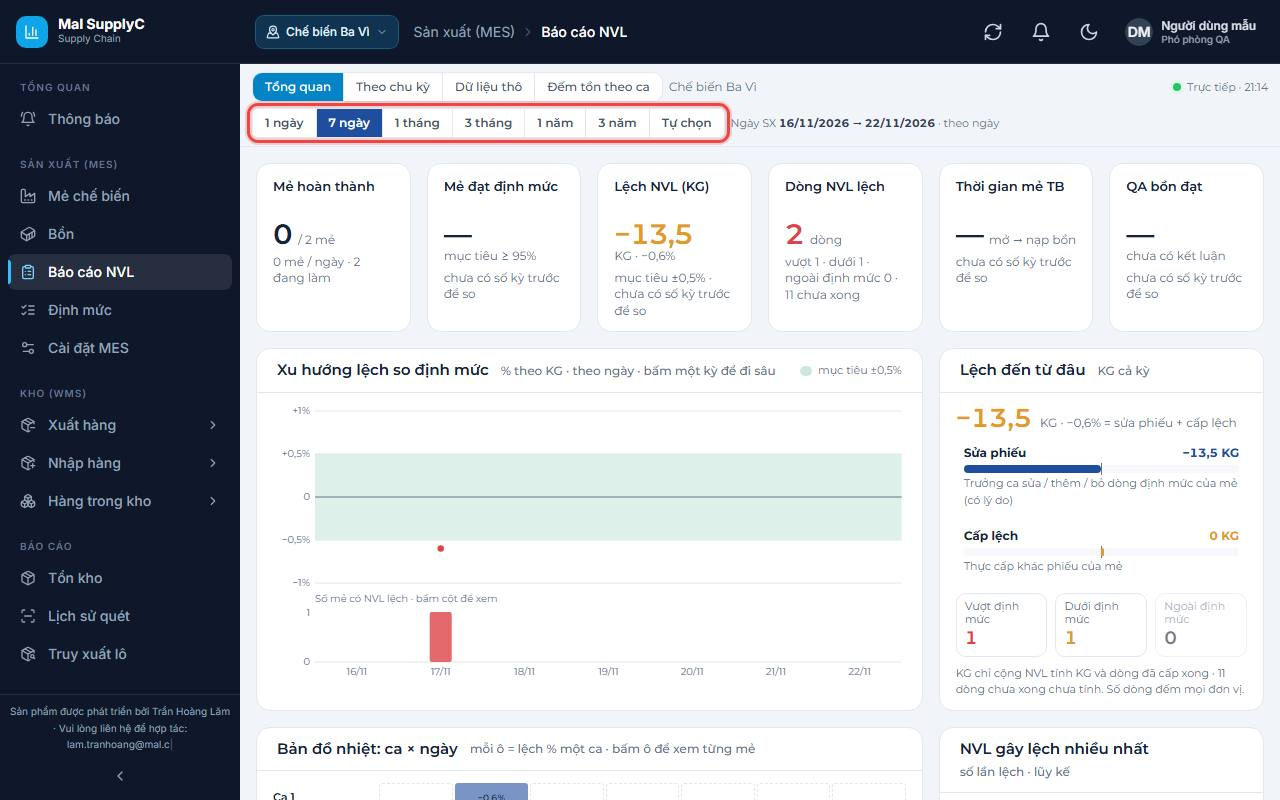
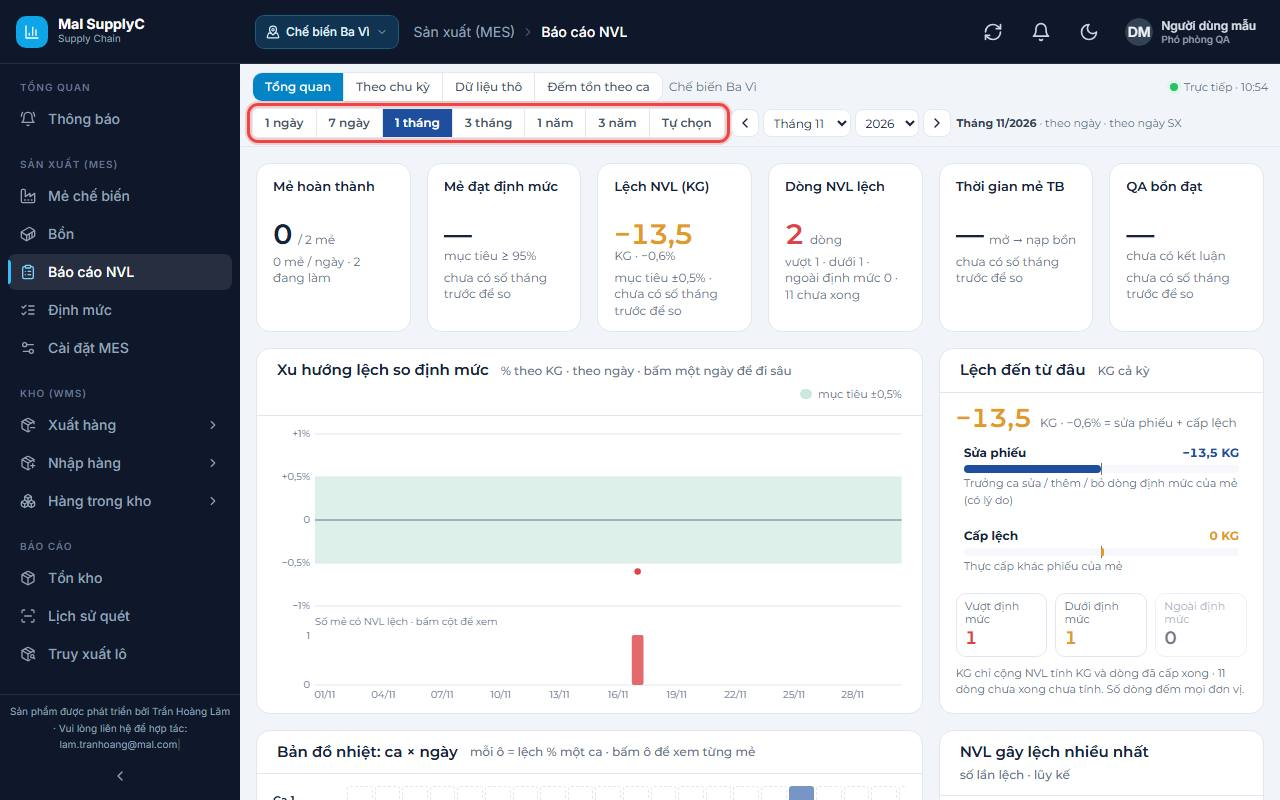
docs(mes): dashboard Báo cáo NVL mặc định 1 tháng; chụp lại ảnh hướng dẫn 70b / 70c theo kỳ lịch + ô chọn mốc

diff --git a/docs/modules/production.md b/docs/modules/production.md
@@ -80,7 +80,7 @@ User 18/11: "vẽ cho tôi bồn, dự kiến 20–30 cái bồn. Hãy tiết ki
 
 | Tình huống | Kết quả |
 |---|---|
-| Kỳ xem (23/11 — THEO LỊCH quanh MỐC; user: "3 năm = năm hiện tại, năm trước, năm sau · 1 năm = các tháng của năm · dữ liệu gom luôn · phải có mục chọn theo mốc thời gian") | 1 ngày = ngày mốc, từng mẻ · 7 ngày = tuần **Thứ Hai → Chủ nhật** chứa mốc, theo ngày · 1 tháng = tháng của mốc, theo ngày · 3 tháng = **tháng trước · tháng mốc · tháng sau**, theo tháng · 1 năm = **12 tháng** của năm mốc · 3 năm = **năm trước · năm mốc · năm sau**, theo năm (grain `year`, migration 20261123) · Tự chọn = Từ / Đến, gom theo độ dài (≤ 92 ngày theo ngày · ≤ 400 theo tuần · dài hơn theo tháng). Mốc: ô ngày (1 ngày / 7 ngày) · tháng + năm (1 tháng / 3 tháng) · năm (1 năm / 3 năm), ‹ › lùi tiến một kỳ, "Hôm nay" khi kỳ đang xem không chứa hôm nay; nhớ trong bộ lọc `productionReport.dRange` / `dAnchor` (giá trị cũ '7d' đọc thành 7 ngày). Kỳ so ▲▼ = kỳ liền trước CÙNG kiểu (hôm trước · tuần trước · tháng trước · 3 tháng trước đó · năm trước · 3 năm trước đó) — màn gửi `prev_from` / `prev_to`. Mẻ / ngày chia cho số ngày ĐÃ QUA (kỳ có thể gồm ngày tương lai). Luật kỳ: `utils/mesDash.ts` (periodOf · stepAnchor · drillOf), test `mesDash.test.ts`; trục luôn đủ mọi kỳ (C131) |
+| Kỳ xem (23/11 — THEO LỊCH quanh MỐC; user: "3 năm = năm hiện tại, năm trước, năm sau · 1 năm = các tháng của năm · dữ liệu gom luôn · phải có mục chọn theo mốc thời gian") | 1 ngày = ngày mốc, từng mẻ · 7 ngày = tuần **Thứ Hai → Chủ nhật** chứa mốc, theo ngày · 1 tháng = tháng của mốc, theo ngày · 3 tháng = **tháng trước · tháng mốc · tháng sau**, theo tháng · 1 năm = **12 tháng** của năm mốc · 3 năm = **năm trước · năm mốc · năm sau**, theo năm (grain `year`, migration 20261123) · Tự chọn = Từ / Đến, gom theo độ dài (≤ 92 ngày theo ngày · ≤ 400 theo tuần · dài hơn theo tháng). Mốc: ô ngày (1 ngày / 7 ngày) · tháng + năm (1 tháng / 3 tháng) · năm (1 năm / 3 năm), ‹ › lùi tiến một kỳ, "Hôm nay" khi kỳ đang xem không chứa hôm nay; nhớ trong bộ lọc `productionReport.dRange` / `dAnchor`; **mặc định 1 tháng** (tháng này — tuần lịch sáng thứ Hai gần như luôn trống), giá trị cũ '7d' cũng đọc thành 1 tháng. Kỳ so ▲▼ = kỳ liền trước CÙNG kiểu (hôm trước · tuần trước · tháng trước · 3 tháng trước đó · năm trước · 3 năm trước đó) — màn gửi `prev_from` / `prev_to`. Mẻ / ngày chia cho số ngày ĐÃ QUA (kỳ có thể gồm ngày tương lai). Luật kỳ: `utils/mesDash.ts` (periodOf · stepAnchor · drillOf), test `mesDash.test.ts`; trục luôn đủ mọi kỳ (C131) |
 | Số lấy từ đâu | MỘT lời gọi `GET /production/dashboard` → `mes_dashboard`. Mẻ đã nạp bồn đọc **sổ tổng hợp** `production_batch_fact` / `production_batch_dev_line` (dựng lúc nạp đầu bằng trigger, dựng lại khi phiếu / lần cấp / ca / ngày / QA của mẻ đổi); mẻ chưa nạp tính trực tiếp. Luật dòng = `mes_line_state` (bản SQL của `cellState`, cùng bảng ca `mesLineStateCases.json`) ⇒ số khớp tab Theo chu kỳ |
 | Thẻ số | Mẻ hoàn thành (đã nạp / tổng, mẻ/ngày, đang làm) · Mẻ đạt định mức (% mẻ đã nạp không NVL nào lệch; màu so mục tiêu) · Lệch NVL KG (+ %; mục tiêu ±) · Dòng NVL lệch (vượt · dưới · ngoài định mức · chưa xong) · Thời gian mẻ TB (mở → nạp) · QA bồn đạt. Mỗi thẻ so kỳ trước cùng độ dài (▲▼ màu theo hướng tốt) |
 | Khối | Xu hướng lệch % (dải mục tiêu, điểm ngoài dải đỏ) + dải số mẻ có NVL lệch (trục riêng) · 1 ngày: mỗi mẻ một cột · Lệch đến từ đâu (KG sửa phiếu / cấp lệch + số dòng vượt / dưới / ngoài) · Bản đồ nhiệt ca × kỳ (xanh = cấp ít hơn, cam = cấp nhiều hơn, đậm nhất = 2 lần mục tiêu) + bảng theo ca · NVL gây lệch nhiều nhất (số lần lệch, lũy kế, nhóm 80%) · Biểu đồ kiểm soát 300 mẻ gần nhất (trung bình ± 3σ, cần ≥ 10 mẻ) · Theo BTP · Mẻ cần xem (10 mẻ lệch % lớn nhất, NVL lệch chính, nguyên nhân) |
